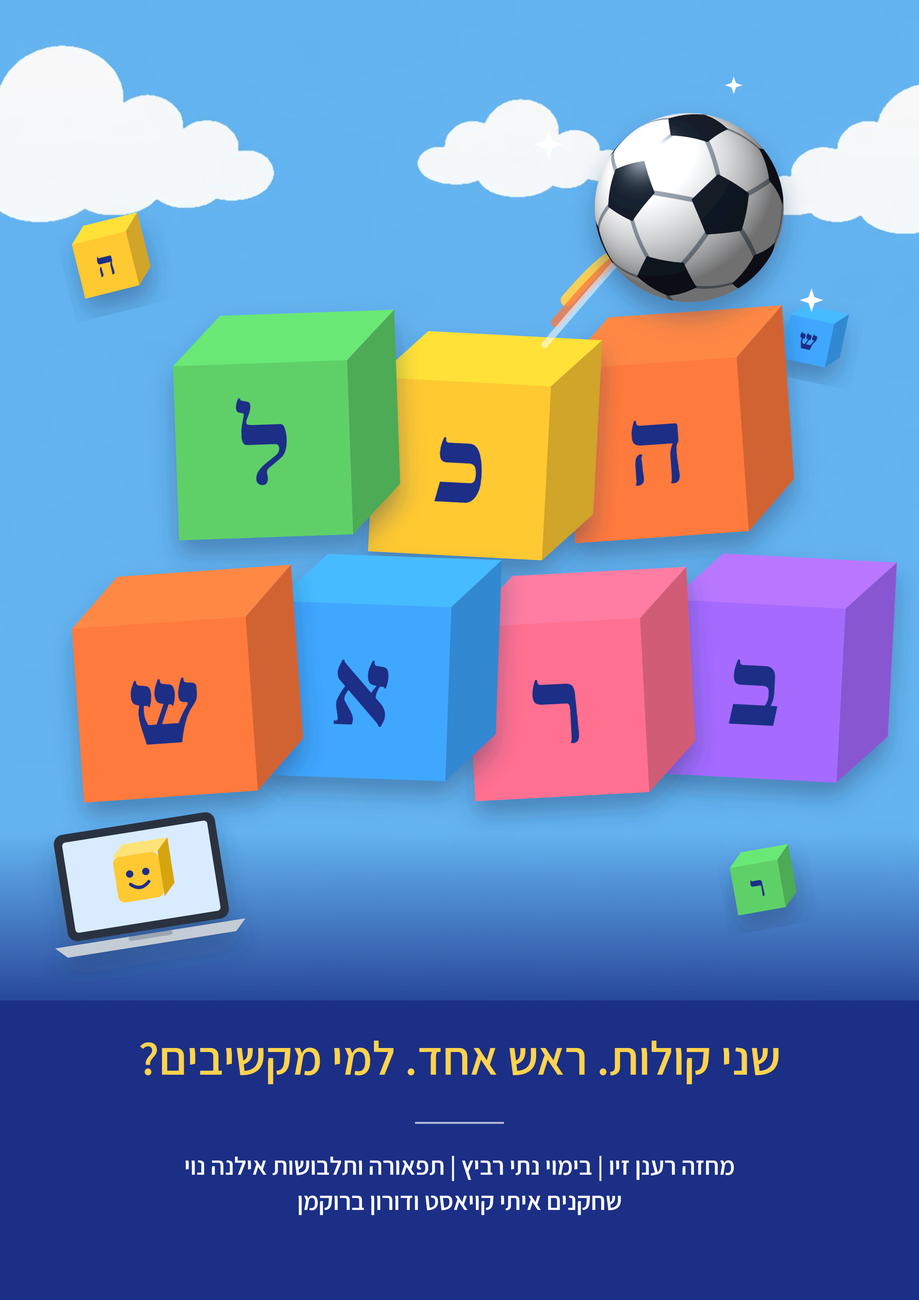
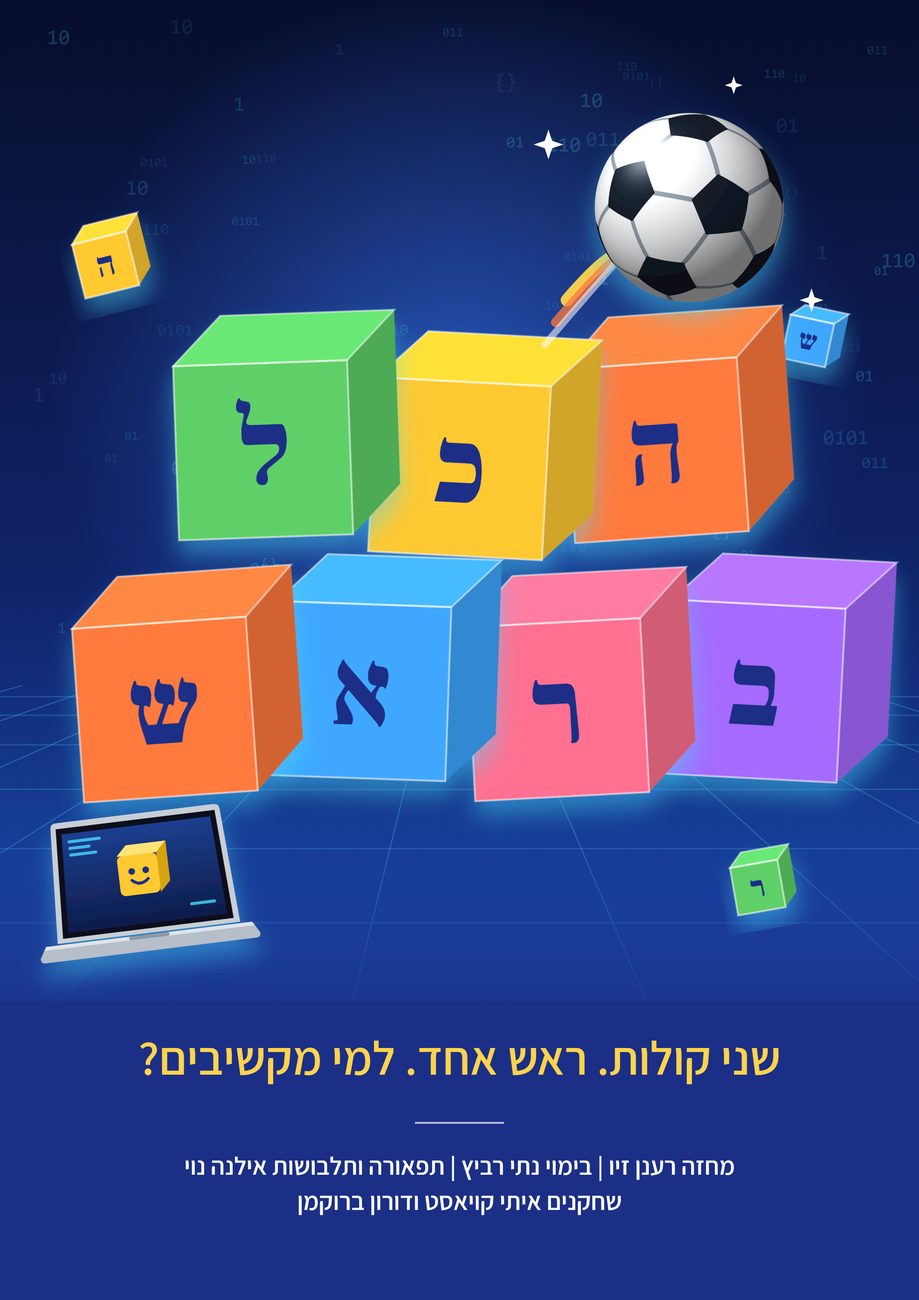
poster: digital look (grid, glow, binary), more realistic laptop

diff --git a/poster/hakol-braosh.html b/poster/hakol-braosh.html
@@ -2,54 +2,57 @@
 <style>html,body{margin:0;background:#fbfaf7;overflow:hidden}svg{display:block}</style>
 <svg xmlns="http://www.w3.org/2000/svg" width="2480" height="3508" viewBox="0 0 2480 3508">
 <defs><linearGradient id="bg" x1="0" y1="0" x2="0" y2="1"><stop offset="0" stop-color="#dcebf7"/><stop offset=".55" stop-color="#f4f8fb"/><stop offset="1" stop-color="#fbfaf7"/></linearGradient>
-<filter id="sh" x="-20%" y="-20%" width="150%" height="150%"><feDropShadow dx="0" dy="40" stdDeviation="30" flood-color="#243a64" flood-opacity=".38"/></filter><linearGradient id="fade" x1="0" y1="0" x2="0" y2="1"><stop offset="0" stop-color="#ffffff" stop-opacity="0"/><stop offset=".64" stop-color="#1b2f86" stop-opacity="0"/><stop offset=".80" stop-color="#1b2f86" stop-opacity="1"/></linearGradient><radialGradient id="bs" cx=".38" cy=".32" r=".8"><stop offset="0" stop-color="#ffffff"/><stop offset="1" stop-color="#d3dbe4"/></radialGradient><radialGradient id="bsh" cx=".4" cy=".35" r=".75"><stop offset=".55" stop-color="#14202e" stop-opacity="0"/><stop offset="1" stop-color="#14202e" stop-opacity=".45"/></radialGradient></defs>
-<rect width="2480" height="3508" fill="#1b2f86"/><image href="../sky-bg.jpg" x="0" y="0" width="2480" height="2700" preserveAspectRatio="xMidYMin slice"/><rect width="2480" height="3508" fill="url(#fade)"/>
+<filter id="sh" x="-20%" y="-20%" width="150%" height="150%"><feDropShadow dx="0" dy="40" stdDeviation="30" flood-color="#46d9ff" flood-opacity=".45"/></filter><linearGradient id="fade" x1="0" y1="0" x2="0" y2="1"><stop offset="0" stop-color="#ffffff" stop-opacity="0"/><stop offset=".64" stop-color="#1b2f86" stop-opacity="0"/><stop offset=".80" stop-color="#1b2f86" stop-opacity="1"/></linearGradient><radialGradient id="bs" cx=".38" cy=".32" r=".8"><stop offset="0" stop-color="#ffffff"/><stop offset="1" stop-color="#d3dbe4"/></radialGradient><radialGradient id="bsh" cx=".4" cy=".35" r=".75"><stop offset=".55" stop-color="#14202e" stop-opacity="0"/><stop offset="1" stop-color="#14202e" stop-opacity=".45"/></radialGradient><linearGradient id="dg" x1="0" y1="0" x2="0" y2="1"><stop offset="0" stop-color="#070d2b"/><stop offset=".6" stop-color="#10246b"/><stop offset="1" stop-color="#1a4fb3"/></linearGradient><radialGradient id="halo"><stop offset="0" stop-color="#3a7bff" stop-opacity=".55"/><stop offset="1" stop-color="#3a7bff" stop-opacity="0"/></radialGradient><linearGradient id="scr" x1="0" y1="0" x2="0" y2="1"><stop offset="0" stop-color="#1c3f8f"/><stop offset="1" stop-color="#0d1c4a"/></linearGradient></defs>
+<rect width="2480" height="3508" fill="#1b2f86"/><rect width="2480" height="2700" fill="url(#dg)"/><circle cx="1240" cy="1050" r="1100" fill="url(#halo)"/><text x="1366" y="398" font-family="monospace" font-size="44" fill="#46d9ff" fill-opacity="0.22">01</text><text x="336" y="1187" font-family="monospace" font-size="34" fill="#46d9ff" fill-opacity="0.16">01</text><text x="2118" y="529" font-family="monospace" font-size="34" fill="#46d9ff" fill-opacity="0.1">{}</text><text x="1752" y="233" font-family="monospace" font-size="34" fill="#46d9ff" fill-opacity="0.1">{}</text><text x="282" y="1248" font-family="monospace" font-size="34" fill="#46d9ff" fill-opacity="0.1">01</text><text x="1664" y="191" font-family="monospace" font-size="34" fill="#46d9ff" fill-opacity="0.1">110</text><text x="1226" y="948" font-family="monospace" font-size="34" fill="#46d9ff" fill-opacity="0.22">10</text><text x="2378" y="721" font-family="monospace" font-size="56" fill="#46d9ff" fill-opacity="0.22">110</text><text x="462" y="1281" font-family="monospace" font-size="56" fill="#46d9ff" fill-opacity="0.22">0101</text><text x="1565" y="289" font-family="monospace" font-size="56" fill="#46d9ff" fill-opacity="0.22">10</text><text x="2351" y="212" font-family="monospace" font-size="56" fill="#46d9ff" fill-opacity="0.1"></></text><text x="2217" y="965" font-family="monospace" font-size="44" fill="#46d9ff" fill-opacity="0.16"></></text><text x="1521" y="703" font-family="monospace" font-size="34" fill="#46d9ff" fill-opacity="0.1">0101</text><text x="375" y="1266" font-family="monospace" font-size="44" fill="#46d9ff" fill-opacity="0.22"></></text><text x="1446" y="1583" font-family="monospace" font-size="44" fill="#46d9ff" fill-opacity="0.16">10</text><text x="523" y="1138" font-family="monospace" font-size="44" fill="#46d9ff" fill-opacity="0.1">011</text><text x="662" y="1091" font-family="monospace" font-size="44" fill="#46d9ff" fill-opacity="0.1">10</text><text x="2325" y="1263" font-family="monospace" font-size="44" fill="#46d9ff" fill-opacity="0.16">011</text><text x="2074" y="1277" font-family="monospace" font-size="44" fill="#46d9ff" fill-opacity="0.1">10</text><text x="1145" y="1060" font-family="monospace" font-size="56" fill="#46d9ff" fill-opacity="0.22">10</text><text x="288" y="1587" font-family="monospace" font-size="56" fill="#46d9ff" fill-opacity="0.16"></></text><text x="1205" y="1557" font-family="monospace" font-size="44" fill="#46d9ff" fill-opacity="0.22">011</text><text x="132" y="1035" font-family="monospace" font-size="44" fill="#46d9ff" fill-opacity="0.1">10</text><text x="2062" y="210" font-family="monospace" font-size="34" fill="#46d9ff" fill-opacity="0.16">110</text><text x="1054" y="904" font-family="monospace" font-size="44" fill="#46d9ff" fill-opacity="0.16">10</text><text x="721" y="1009" font-family="monospace" font-size="44" fill="#46d9ff" fill-opacity="0.22">1</text><text x="600" y="971" font-family="monospace" font-size="56" fill="#46d9ff" fill-opacity="0.16">{}</text><text x="1509" y="1488" font-family="monospace" font-size="44" fill="#46d9ff" fill-opacity="0.1">110</text><text x="379" y="450" font-family="monospace" font-size="34" fill="#46d9ff" fill-opacity="0.1">0101</text><text x="89" y="1083" font-family="monospace" font-size="56" fill="#46d9ff" fill-opacity="0.1">1</text><text x="1194" y="98" font-family="monospace" font-size="34" fill="#46d9ff" fill-opacity="0.16">011</text><text x="2359" y="742" font-family="monospace" font-size="34" fill="#46d9ff" fill-opacity="0.22">01</text><text x="1910" y="1687" font-family="monospace" font-size="56" fill="#46d9ff" fill-opacity="0.22">{}</text><text x="1670" y="907" font-family="monospace" font-size="44" fill="#46d9ff" fill-opacity="0.1"></></text><text x="1680" y="217" font-family="monospace" font-size="34" fill="#46d9ff" fill-opacity="0.1">0101</text><text x="1844" y="422" font-family="monospace" font-size="34" fill="#46d9ff" fill-opacity="0.16">01</text><text x="459" y="90" font-family="monospace" font-size="56" fill="#46d9ff" fill-opacity="0.1">10</text><text x="1529" y="1346" font-family="monospace" font-size="34" fill="#46d9ff" fill-opacity="0.1">0101</text><text x="1581" y="394" font-family="monospace" font-size="56" fill="#46d9ff" fill-opacity="0.16">011</text><text x="1531" y="1061" font-family="monospace" font-size="34" fill="#46d9ff" fill-opacity="0.1"></></text><text x="1948" y="1073" font-family="monospace" font-size="44" fill="#46d9ff" fill-opacity="0.16">10</text><text x="630" y="299" font-family="monospace" font-size="56" fill="#46d9ff" fill-opacity="0.16">1</text><text x="2000" y="1507" font-family="monospace" font-size="34" fill="#46d9ff" fill-opacity="0.22">01</text><text x="880" y="1171" font-family="monospace" font-size="44" fill="#46d9ff" fill-opacity="0.1">01</text><text x="2203" y="700" font-family="monospace" font-size="56" fill="#46d9ff" fill-opacity="0.1">1</text><text x="2163" y="841" font-family="monospace" font-size="34" fill="#46d9ff" fill-opacity="0.16">0101</text><text x="2221" y="1199" font-family="monospace" font-size="56" fill="#46d9ff" fill-opacity="0.16">0101</text><text x="839" y="1740" font-family="monospace" font-size="34" fill="#46d9ff" fill-opacity="0.16">0101</text><text x="858" y="1150" font-family="monospace" font-size="44" fill="#46d9ff" fill-opacity="0.16">01</text><text x="154" y="1708" font-family="monospace" font-size="44" fill="#46d9ff" fill-opacity="0.16">1</text><text x="833" y="1508" font-family="monospace" font-size="56" fill="#46d9ff" fill-opacity="0.16"></></text><text x="1471" y="836" font-family="monospace" font-size="34" fill="#46d9ff" fill-opacity="0.1">10</text><text x="969" y="1052" font-family="monospace" font-size="34" fill="#46d9ff" fill-opacity="0.16">0101</text><text x="2016" y="1368" font-family="monospace" font-size="56" fill="#46d9ff" fill-opacity="0.1"></></text><text x="1449" y="1727" font-family="monospace" font-size="56" fill="#46d9ff" fill-opacity="0.1">10</text><text x="1631" y="1692" font-family="monospace" font-size="56" fill="#46d9ff" fill-opacity="0.1"></></text><text x="771" y="978" font-family="monospace" font-size="56" fill="#46d9ff" fill-opacity="0.16">10</text><text x="1661" y="1038" font-family="monospace" font-size="44" fill="#46d9ff" fill-opacity="0.22">10</text><text x="690" y="438" font-family="monospace" font-size="34" fill="#46d9ff" fill-opacity="0.1">110</text><text x="1946" y="1741" font-family="monospace" font-size="56" fill="#46d9ff" fill-opacity="0.1"></></text><text x="1475" y="409" font-family="monospace" font-size="56" fill="#46d9ff" fill-opacity="0.22">110</text><text x="127" y="119" font-family="monospace" font-size="56" fill="#46d9ff" fill-opacity="0.22">10</text><text x="2196" y="1624" font-family="monospace" font-size="34" fill="#46d9ff" fill-opacity="0.16">0101</text><text x="904" y="147" font-family="monospace" font-size="44" fill="#46d9ff" fill-opacity="0.1">1</text><text x="2092" y="582" font-family="monospace" font-size="56" fill="#46d9ff" fill-opacity="0.16">1</text><text x="2269" y="948" font-family="monospace" font-size="34" fill="#46d9ff" fill-opacity="0.1">011</text><text x="1916" y="1446" font-family="monospace" font-size="56" fill="#46d9ff" fill-opacity="0.22">{}</text><text x="2094" y="357" font-family="monospace" font-size="56" fill="#46d9ff" fill-opacity="0.1">01</text><text x="1842" y="1680" font-family="monospace" font-size="34" fill="#46d9ff" fill-opacity="0.22">01</text><text x="653" y="442" font-family="monospace" font-size="34" fill="#46d9ff" fill-opacity="0.16">10</text><text x="2319" y="216" font-family="monospace" font-size="44" fill="#46d9ff" fill-opacity="0.22"></></text><text x="474" y="1237" font-family="monospace" font-size="34" fill="#46d9ff" fill-opacity="0.1">0101</text><text x="1174" y="176" font-family="monospace" font-size="34" fill="#46d9ff" fill-opacity="0.22"></></text><text x="2340" y="147" font-family="monospace" font-size="34" fill="#46d9ff" fill-opacity="0.16">011</text><text x="2110" y="1331" font-family="monospace" font-size="56" fill="#46d9ff" fill-opacity="0.1">1</text><text x="1892" y="1130" font-family="monospace" font-size="56" fill="#46d9ff" fill-opacity="0.16">0101</text><text x="2183" y="621" font-family="monospace" font-size="56" fill="#46d9ff" fill-opacity="0.1"></></text><text x="601" y="943" font-family="monospace" font-size="34" fill="#46d9ff" fill-opacity="0.16"></></text><text x="1334" y="238" font-family="monospace" font-size="56" fill="#46d9ff" fill-opacity="0.1">{}</text><text x="339" y="525" font-family="monospace" font-size="56" fill="#46d9ff" fill-opacity="0.16">10</text><text x="672" y="1556" font-family="monospace" font-size="56" fill="#46d9ff" fill-opacity="0.22">011</text><text x="625" y="608" font-family="monospace" font-size="34" fill="#46d9ff" fill-opacity="0.16">0101</text><text x="425" y="905" font-family="monospace" font-size="44" fill="#46d9ff" fill-opacity="0.1">0101</text><text x="701" y="1536" font-family="monospace" font-size="44" fill="#46d9ff" fill-opacity="0.22">{}</text><text x="1429" y="952" font-family="monospace" font-size="34" fill="#46d9ff" fill-opacity="0.16">011</text><text x="417" y="1568" font-family="monospace" font-size="44" fill="#46d9ff" fill-opacity="0.1">011</text><text x="2309" y="1029" font-family="monospace" font-size="44" fill="#46d9ff" fill-opacity="0.22">01</text><text x="1614" y="768" font-family="monospace" font-size="56" fill="#46d9ff" fill-opacity="0.22">1</text><text x="2138" y="221" font-family="monospace" font-size="34" fill="#46d9ff" fill-opacity="0.1">10</text><text x="384" y="633" font-family="monospace" font-size="44" fill="#46d9ff" fill-opacity="0.1">110</text><line x1="-600" y1="1850" x2="-5384" y2="2700" stroke="#46d9ff" stroke-opacity=".28" stroke-width="3"/><line x1="-380" y1="1850" x2="-4592" y2="2700" stroke="#46d9ff" stroke-opacity=".28" stroke-width="3"/><line x1="-160" y1="1850" x2="-3800" y2="2700" stroke="#46d9ff" stroke-opacity=".28" stroke-width="3"/><line x1="60" y1="1850" x2="-3008" y2="2700" stroke="#46d9ff" stroke-opacity=".28" stroke-width="3"/><line x1="280" y1="1850" x2="-2216" y2="2700" stroke="#46d9ff" stroke-opacity=".28" stroke-width="3"/><line x1="500" y1="1850" x2="-1424" y2="2700" stroke="#46d9ff" stroke-opacity=".28" stroke-width="3"/><line x1="720" y1="1850" x2="-632" y2="2700" stroke="#46d9ff" stroke-opacity=".28" stroke-width="3"/><line x1="940" y1="1850" x2="160" y2="2700" stroke="#46d9ff" stroke-opacity=".28" stroke-width="3"/><line x1="1160" y1="1850" x2="952" y2="2700" stroke="#46d9ff" stroke-opacity=".28" stroke-width="3"/><line x1="1380" y1="1850" x2="1744" y2="2700" stroke="#46d9ff" stroke-opacity=".28" stroke-width="3"/><line x1="1600" y1="1850" x2="2536" y2="2700" stroke="#46d9ff" stroke-opacity=".28" stroke-width="3"/><line x1="1820" y1="1850" x2="3328" y2="2700" stroke="#46d9ff" stroke-opacity=".28" stroke-width="3"/><line x1="2040" y1="1850" x2="4120" y2="2700" stroke="#46d9ff" stroke-opacity=".28" stroke-width="3"/><line x1="2260" y1="1850" x2="4912" y2="2700" stroke="#46d9ff" stroke-opacity=".28" stroke-width="3"/><line x1="2480" y1="1850" x2="5704" y2="2700" stroke="#46d9ff" stroke-opacity=".28" stroke-width="3"/><line x1="2700" y1="1850" x2="6496" y2="2700" stroke="#46d9ff" stroke-opacity=".28" stroke-width="3"/><line x1="2920" y1="1850" x2="7288" y2="2700" stroke="#46d9ff" stroke-opacity=".28" stroke-width="3"/><line x1="0" y1="1880" x2="2480" y2="1880" stroke="#46d9ff" stroke-opacity=".25" stroke-width="3"/><line x1="0" y1="1930" x2="2480" y2="1930" stroke="#46d9ff" stroke-opacity=".25" stroke-width="3"/><line x1="0" y1="2010" x2="2480" y2="2010" stroke="#46d9ff" stroke-opacity=".25" stroke-width="3"/><line x1="0" y1="2130" x2="2480" y2="2130" stroke="#46d9ff" stroke-opacity=".25" stroke-width="3"/><line x1="0" y1="2290" x2="2480" y2="2290" stroke="#46d9ff" stroke-opacity=".25" stroke-width="3"/><line x1="0" y1="2490" x2="2480" y2="2490" stroke="#46d9ff" stroke-opacity=".25" stroke-width="3"/><rect width="2480" height="3508" fill="url(#fade)"/>
 <g transform="translate(210 640) rotate(-14 75.0 75.0)" filter="url(#sh)">
  <polygon points="0,0 42.00000000000001,-42.00000000000001 192.0,-42.00000000000001 150,0" fill="#ffe139"/>
  <polygon points="150,0 192.0,-42.00000000000001 192.0,108.0 150,150" fill="#d1a429"/>
- <rect width="150" height="150" fill="#ffc933"/>
+ <rect width="150" height="150" fill="#ffc933" stroke="#ffffff" stroke-opacity=".55" stroke-width="5"/><polygon points="0,0 42.00000000000001,-42.00000000000001 192.0,-42.00000000000001 150,0" fill="none" stroke="#fff" stroke-opacity=".5" stroke-width="5"/>
  <text x="75.0" y="75.0" font-family="Frank Ruhl Libre" font-weight="900" font-size="93.0" fill="#1b2f86" text-anchor="middle" dominant-baseline="central">ה</text></g><g transform="translate(2120 860) rotate(12 60.0 60.0)" filter="url(#sh)">
  <polygon points="0,0 33.6,-33.6 153.6,-33.6 120,0" fill="#46bbff"/>
  <polygon points="120,0 153.6,-33.6 153.6,86.4 120,120" fill="#3388d1"/>
- <rect width="120" height="120" fill="#3fa7ff"/>
+ <rect width="120" height="120" fill="#3fa7ff" stroke="#ffffff" stroke-opacity=".55" stroke-width="5"/><polygon points="0,0 33.6,-33.6 153.6,-33.6 120,0" fill="none" stroke="#fff" stroke-opacity=".5" stroke-width="5"/>
  <text x="60.0" y="60.0" font-family="Frank Ruhl Libre" font-weight="900" font-size="74.4" fill="#1b2f86" text-anchor="middle" dominant-baseline="central">ש</text></g><g transform="translate(1980 2330) rotate(-10 65.0 65.0)" filter="url(#sh)">
  <polygon points="0,0 36.400000000000006,-36.400000000000006 166.4,-36.400000000000006 130,0" fill="#6ae874"/>
  <polygon points="130,0 166.4,-36.400000000000006 166.4,93.6 130,130" fill="#4daa55"/>
- <rect width="130" height="130" fill="#5fd068"/>
+ <rect width="130" height="130" fill="#5fd068" stroke="#ffffff" stroke-opacity=".55" stroke-width="5"/><polygon points="0,0 36.400000000000006,-36.400000000000006 166.4,-36.400000000000006 130,0" fill="none" stroke="#fff" stroke-opacity=".5" stroke-width="5"/>
  <text x="65.0" y="65.0" font-family="Frank Ruhl Libre" font-weight="900" font-size="80.6" fill="#1b2f86" text-anchor="middle" dominant-baseline="central">ר</text></g><g transform="translate(1535.0 980) rotate(-4 235.0 235.0)" filter="url(#sh)">
  <polygon points="0,0 131.60000000000002,-131.60000000000002 601.6,-131.60000000000002 470,0" fill="#ff8844"/>
  <polygon points="470,0 601.6,-131.60000000000002 601.6,338.4 470,470" fill="#d16432"/>
- <rect width="470" height="470" fill="#ff7a3d"/>
+ <rect width="470" height="470" fill="#ff7a3d" stroke="#ffffff" stroke-opacity=".55" stroke-width="5"/><polygon points="0,0 131.60000000000002,-131.60000000000002 601.6,-131.60000000000002 470,0" fill="none" stroke="#fff" stroke-opacity=".5" stroke-width="5"/>
  <text x="235.0" y="235.0" font-family="Frank Ruhl Libre" font-weight="900" font-size="291.4" fill="#1b2f86" text-anchor="middle" dominant-baseline="central">ה</text></g><g transform="translate(1005.0 1030) rotate(3 235.0 235.0)" filter="url(#sh)">
  <polygon points="0,0 131.60000000000002,-131.60000000000002 601.6,-131.60000000000002 470,0" fill="#ffe139"/>
  <polygon points="470,0 601.6,-131.60000000000002 601.6,338.4 470,470" fill="#d1a429"/>
- <rect width="470" height="470" fill="#ffc933"/>
+ <rect width="470" height="470" fill="#ffc933" stroke="#ffffff" stroke-opacity=".55" stroke-width="5"/><polygon points="0,0 131.60000000000002,-131.60000000000002 601.6,-131.60000000000002 470,0" fill="none" stroke="#fff" stroke-opacity=".5" stroke-width="5"/>
  <text x="235.0" y="235.0" font-family="Frank Ruhl Libre" font-weight="900" font-size="291.4" fill="#1b2f86" text-anchor="middle" dominant-baseline="central">כ</text></g><g transform="translate(475.0 980) rotate(-2 235.0 235.0)" filter="url(#sh)">
  <polygon points="0,0 131.60000000000002,-131.60000000000002 601.6,-131.60000000000002 470,0" fill="#6ae874"/>
  <polygon points="470,0 601.6,-131.60000000000002 601.6,338.4 470,470" fill="#4daa55"/>
- <rect width="470" height="470" fill="#5fd068"/>
+ <rect width="470" height="470" fill="#5fd068" stroke="#ffffff" stroke-opacity=".55" stroke-width="5"/><polygon points="0,0 131.60000000000002,-131.60000000000002 601.6,-131.60000000000002 470,0" fill="none" stroke="#fff" stroke-opacity=".5" stroke-width="5"/>
  <text x="235.0" y="235.0" font-family="Frank Ruhl Libre" font-weight="900" font-size="291.4" fill="#1b2f86" text-anchor="middle" dominant-baseline="central">ל</text></g><g transform="translate(1800.0 1630) rotate(3 235.0 235.0)" filter="url(#sh)">
  <polygon points="0,0 131.60000000000002,-131.60000000000002 601.6,-131.60000000000002 470,0" fill="#b977ff"/>
  <polygon points="470,0 601.6,-131.60000000000002 601.6,338.4 470,470" fill="#8857d1"/>
- <rect width="470" height="470" fill="#a66bff"/>
+ <rect width="470" height="470" fill="#a66bff" stroke="#ffffff" stroke-opacity=".55" stroke-width="5"/><polygon points="0,0 131.60000000000002,-131.60000000000002 601.6,-131.60000000000002 470,0" fill="none" stroke="#fff" stroke-opacity=".5" stroke-width="5"/>
  <text x="235.0" y="235.0" font-family="Frank Ruhl Libre" font-weight="900" font-size="291.4" fill="#1b2f86" text-anchor="middle" dominant-baseline="central">ב</text></g><g transform="translate(1270.0 1680) rotate(-3 235.0 235.0)" filter="url(#sh)">
  <polygon points="0,0 131.60000000000002,-131.60000000000002 601.6,-131.60000000000002 470,0" fill="#ff7ca2"/>
  <polygon points="470,0 601.6,-131.60000000000002 601.6,338.4 470,470" fill="#d15b76"/>
- <rect width="470" height="470" fill="#ff6f91"/>
+ <rect width="470" height="470" fill="#ff6f91" stroke="#ffffff" stroke-opacity=".55" stroke-width="5"/><polygon points="0,0 131.60000000000002,-131.60000000000002 601.6,-131.60000000000002 470,0" fill="none" stroke="#fff" stroke-opacity=".5" stroke-width="5"/>
  <text x="235.0" y="235.0" font-family="Frank Ruhl Libre" font-weight="900" font-size="291.4" fill="#1b2f86" text-anchor="middle" dominant-baseline="central">ר</text></g><g transform="translate(740.0 1630) rotate(2 235.0 235.0)" filter="url(#sh)">
  <polygon points="0,0 131.60000000000002,-131.60000000000002 601.6,-131.60000000000002 470,0" fill="#46bbff"/>
  <polygon points="470,0 601.6,-131.60000000000002 601.6,338.4 470,470" fill="#3388d1"/>
- <rect width="470" height="470" fill="#3fa7ff"/>
+ <rect width="470" height="470" fill="#3fa7ff" stroke="#ffffff" stroke-opacity=".55" stroke-width="5"/><polygon points="0,0 131.60000000000002,-131.60000000000002 601.6,-131.60000000000002 470,0" fill="none" stroke="#fff" stroke-opacity=".5" stroke-width="5"/>
  <text x="235.0" y="235.0" font-family="Frank Ruhl Libre" font-weight="900" font-size="291.4" fill="#1b2f86" text-anchor="middle" dominant-baseline="central">א</text></g><g transform="translate(210.0 1680) rotate(-4 235.0 235.0)" filter="url(#sh)">
  <polygon points="0,0 131.60000000000002,-131.60000000000002 601.6,-131.60000000000002 470,0" fill="#ff8844"/>
  <polygon points="470,0 601.6,-131.60000000000002 601.6,338.4 470,470" fill="#d16432"/>
- <rect width="470" height="470" fill="#ff7a3d"/>
- <text x="235.0" y="235.0" font-family="Frank Ruhl Libre" font-weight="900" font-size="291.4" fill="#1b2f86" text-anchor="middle" dominant-baseline="central">ש</text></g><g transform="rotate(-9 390 2420)" filter="url(#sh)">
-<rect x="170" y="2220" width="440" height="290" rx="26" fill="#2b3340"/><rect x="192" y="2242" width="396" height="246" rx="10" fill="#ffffff"/>
-<rect x="192" y="2242" width="396" height="246" rx="10" fill="#d9ecff"/>
-<g transform="translate(390 2365)"><rect x="-70" y="-62" width="124" height="124" rx="18" fill="#ffc933"/><polygon points="-70,-62 -38,-94 86,-94 54,-62" fill="#ffe377"/><polygon points="54,-62 86,-94 86,30 54,62" fill="#d6a40f"/>
-<circle cx="-30" cy="-12" r="10" fill="#1b2f86"/><circle cx="14" cy="-12" r="10" fill="#1b2f86"/><path d="M-32 16 Q-8 40 18 16" stroke="#1b2f86" stroke-width="9" fill="none" stroke-linecap="round"/></g>
-<path d="M130 2520 L650 2520 L620 2550 L160 2550 Z" fill="#c4ccd6"/><rect x="330" y="2520" width="120" height="12" rx="6" fill="#9aa5b1"/></g><g><path d="M1530 810 Q1650 670 1682 688" stroke="#ffd34d" stroke-width="34" stroke-linecap="round" fill="none" opacity="0.95"/><path d="M1500 870 Q1650 695 1682 688" stroke="#ff7a3d" stroke-width="26" stroke-linecap="round" fill="none" opacity="0.75"/><path d="M1470 930 Q1650 720 1682 688" stroke="#ffffff" stroke-width="18" stroke-linecap="round" fill="none" opacity="0.5499999999999999"/><g filter="url(#sh)"><image href="ball.png" x="1605" y="305" width="510" height="510"/></g><polygon points="0,-40 10,-10 40,0 10,10 0,40 -10,10 -40,0 -10,-10" fill="#fff" transform="translate(1480 390) scale(1)"/><polygon points="0,-40 10,-10 40,0 10,10 0,40 -10,10 -40,0 -10,-10" fill="#fff" transform="translate(2190 810) scale(0.8)"/><polygon points="0,-40 10,-10 40,0 10,10 0,40 -10,10 -40,0 -10,-10" fill="#fff" transform="translate(1980 230) scale(0.6)"/></g>
+ <rect width="470" height="470" fill="#ff7a3d" stroke="#ffffff" stroke-opacity=".55" stroke-width="5"/><polygon points="0,0 131.60000000000002,-131.60000000000002 601.6,-131.60000000000002 470,0" fill="none" stroke="#fff" stroke-opacity=".5" stroke-width="5"/>
+ <text x="235.0" y="235.0" font-family="Frank Ruhl Libre" font-weight="900" font-size="291.4" fill="#1b2f86" text-anchor="middle" dominant-baseline="central">ש</text></g><g transform="rotate(-7 390 2420)" filter="url(#sh)">
+<path d="M160 2210 Q160 2194 176 2194 L604 2194 Q620 2194 620 2210 L638 2518 L142 2518 Z" fill="#c7ced6"/>
+<path d="M174 2210 L606 2210 L622 2506 L158 2506 Z" fill="#0b0f1a"/>
+<path d="M188 2226 L592 2226 L606 2492 L174 2492 Z" fill="url(#scr)"/>
+<g transform="translate(390 2358)"><rect x="-62" y="-54" width="108" height="108" rx="14" fill="#ffc933"/><polygon points="-62,-54 -34,-82 74,-82 46,-54" fill="#ffe377"/><polygon points="46,-54 74,-82 74,26 46,54" fill="#d6a40f"/><circle cx="-26" cy="-10" r="9" fill="#1b2f86"/><circle cx="12" cy="-10" r="9" fill="#1b2f86"/><path d="M-28 14 Q-7 34 16 14" stroke="#1b2f86" stroke-width="8" fill="none" stroke-linecap="round"/></g>
+<g fill="#46d9ff" fill-opacity=".8"><rect x="202" y="2244" width="90" height="8" rx="4"/><rect x="202" y="2262" width="60" height="8" rx="4"/><rect x="202" y="2280" width="76" height="8" rx="4"/><rect x="510" y="2450" width="70" height="8" rx="4"/></g>
+<path d="M110 2522 L670 2522 L688 2552 Q690 2566 676 2566 L104 2566 Q90 2566 92 2552 Z" fill="#b6bec8"/>
+<path d="M110 2522 L670 2522 L676 2532 L104 2532 Z" fill="#dfe4ea"/>
+<rect x="335" y="2522" width="110" height="10" rx="5" fill="#8f99a5"/></g><g><path d="M1530 810 Q1650 670 1682 688" stroke="#ffd34d" stroke-width="34" stroke-linecap="round" fill="none" opacity="0.95"/><path d="M1500 870 Q1650 695 1682 688" stroke="#ff7a3d" stroke-width="26" stroke-linecap="round" fill="none" opacity="0.75"/><path d="M1470 930 Q1650 720 1682 688" stroke="#ffffff" stroke-width="18" stroke-linecap="round" fill="none" opacity="0.5499999999999999"/><g filter="url(#sh)"><image href="ball.png" x="1605" y="305" width="510" height="510"/></g><polygon points="0,-40 10,-10 40,0 10,10 0,40 -10,10 -40,0 -10,-10" fill="#fff" transform="translate(1480 390) scale(1)"/><polygon points="0,-40 10,-10 40,0 10,10 0,40 -10,10 -40,0 -10,-10" fill="#fff" transform="translate(2190 810) scale(0.8)"/><polygon points="0,-40 10,-10 40,0 10,10 0,40 -10,10 -40,0 -10,-10" fill="#fff" transform="translate(1980 230) scale(0.6)"/></g>
 <text x="1240.0" y="2900" font-family="Assistant" font-weight="600" font-size="128" fill="#ffd34d" text-anchor="middle" direction="rtl">שני קולות. ראש אחד. למי מקשיבים?</text>
 <line x1="1120.0" x2="1360.0" y1="3030" y2="3030" stroke="#ffffff" stroke-opacity=".7" stroke-width="5"/>
 <text x="1240.0" y="3170" font-family="Assistant" font-weight="600" font-size="68" fill="#ffffff" text-anchor="middle" direction="rtl">מחזה רענן זיו  |  בימוי נתי רביץ  |  תפאורה ותלבושות אילנה נוי</text>
